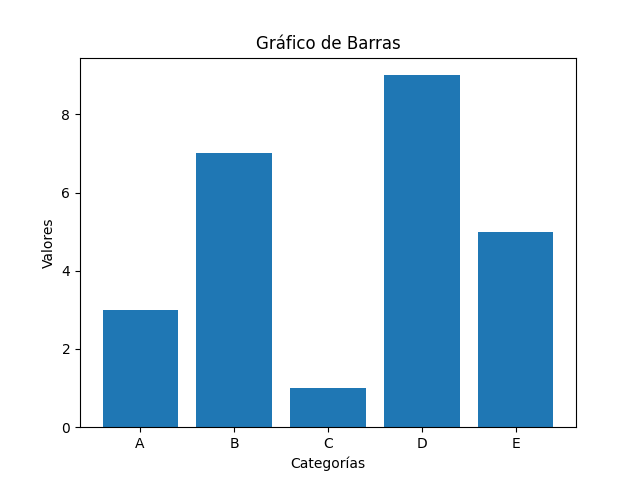
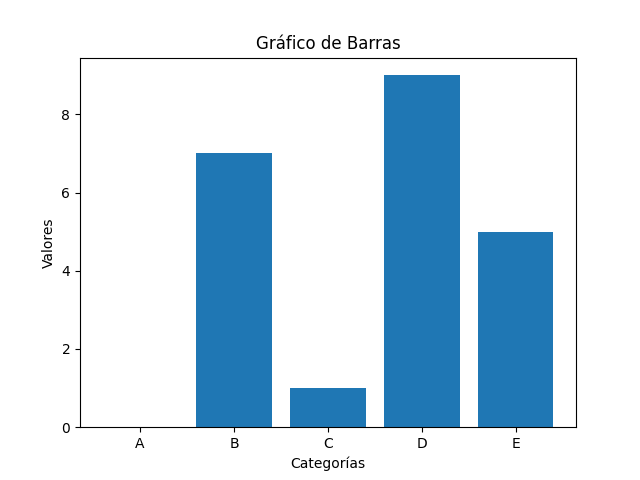
v1.01:Removí carpetas innecesarias e hice pruebas en pruebasgraficas.py

Changed region(s): [[0.1562, 0.625, 0.2812, 0.9062]]

diff --git a/app/pruebasgraficas.py b/app/pruebasgraficas.py
@@ -3,8 +3,8 @@ import matplotlib.pyplot as plt
 
 #Análisis 1
 # Datos de ejemplo
-x1 = [1, 2, 3, 4, 5]
-y1 = [2, 4, 6, 8, 2]
+x1 = [2, 4, 6, 8, 10]
+y1 = [1, 2, 3, 5, 12]
 # Crear un gráfico de línea
 plt.plot(x1, y1)
 plt.title('Gráfico de Línea')
@@ -17,7 +17,7 @@ plt.close()  # Cerrar la figura actual
 #Análisis 2
 # Datos de ejemplo
 categorias = ['A', 'B', 'C', 'D', 'E']
-valores = [3, 7, 1, 9, 5]
+valores = [0, 7, 1, 9, 5]
 plt.bar(categorias, valores)
 plt.title('Gráfico de Barras')
 plt.xlabel('Categorías')

diff --git a/app/EmprenRed_DataAnalysis.py b/app/EmprenRed_DataAnalysis.py
@@ -36,5 +36,5 @@ cargos_mas_comunes = df.groupBy("nombreNegocio").count().orderBy(col("count").de
 print("Los 5 negocios a los que cuales se le solicitan más vacantes son:")
 cargos_mas_comunes.show(truncate=False)
 
-#Gráficas::
+#Gráficas:
 #guiarse en pruebasgraficas.py
